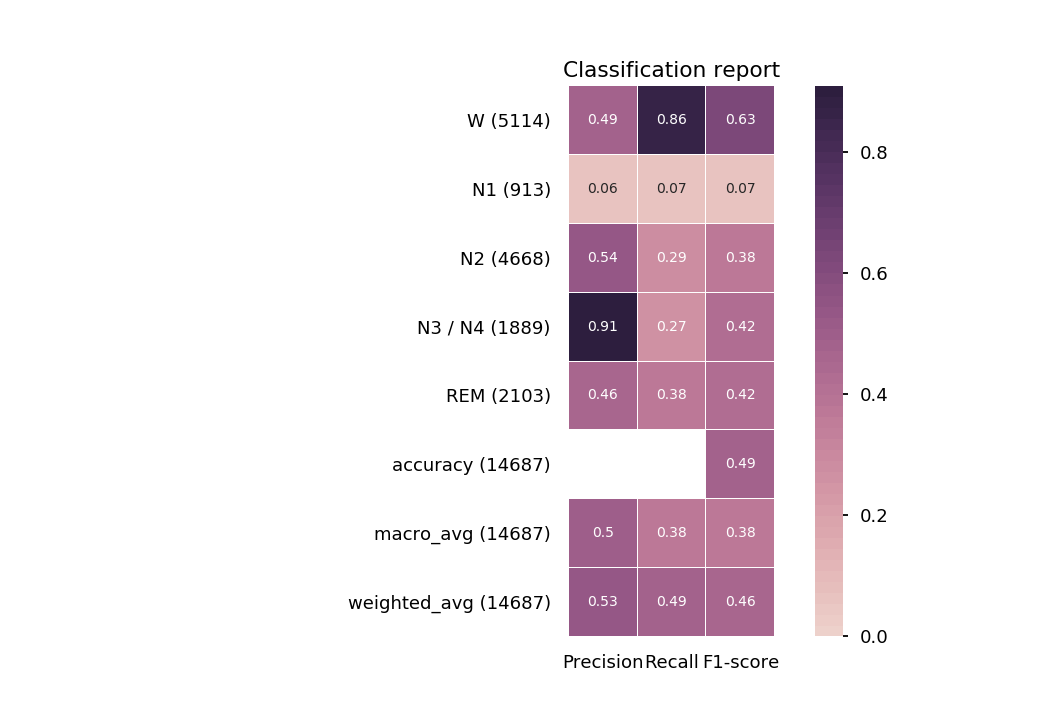
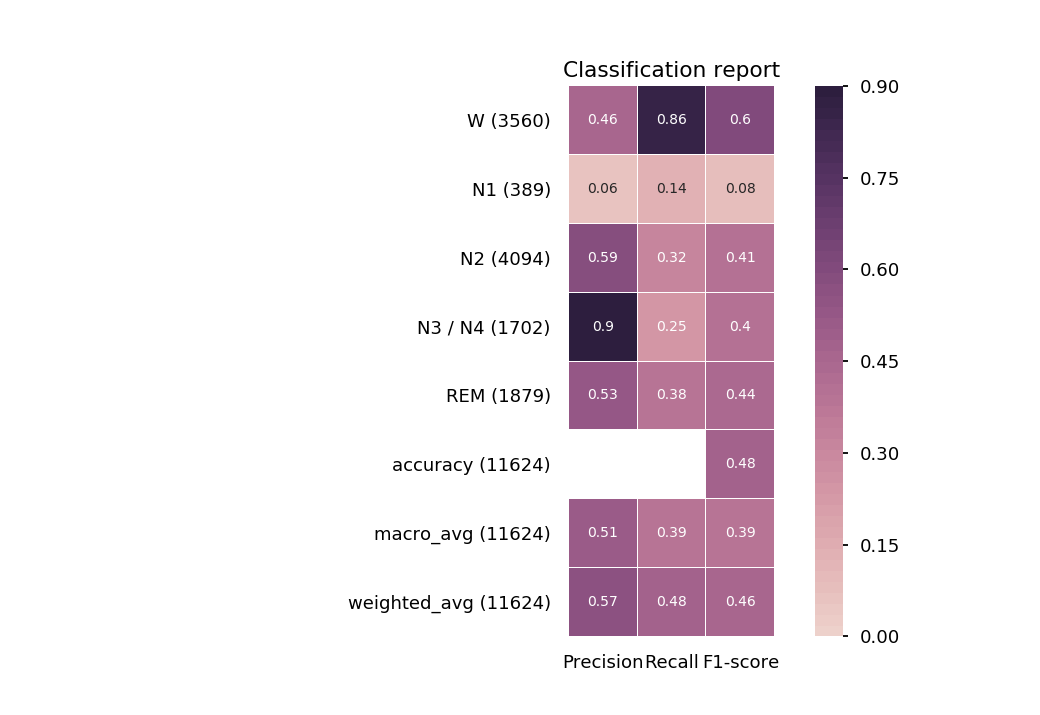
clinical 9channels preprocessing ok

diff --git a/sleep-staging/main_load.py b/sleep-staging/main_load.py
@@ -28,8 +28,8 @@ mapping = {'Sleep stage W': 0,
            'Sleep stage R': 4}
 classes_mapping = {'0': 'W', '1': 'N1', '2': 'N2', '3': 'N3 / N4', '4': 'REM'}
 
-datasets = ['Clinical', 'MASS']
-derivatives = ['9chc', '9ch']
+datasets = ['MASS', 'Clinical']
+derivatives = ['9ch', '9ch']
 sizes = [48, 12]
 
 sfreq = 100
@@ -43,8 +43,8 @@ print_sizes = f'{sizes[0]}_{sizes[1]}'
 
 plots_path = f'plots/29-03/{print_datasets}-{print_sizes}-lr{lr}_batch{batch_size}_{n_epochs}epochs/'
 train_desc = f'{datasets[0]}_{derivatives[0]}-{sizes[0]}-lr{lr}_batch{batch_size}_{n_epochs}epochs'
-models_path = '/storage/store2/work/msolal/trained_models/' + train_desc
-# models_path = '/media/pallanca/datapartition/maelys/trained_models/' + train_desc
+# models_path = '/storage/store2/work/msolal/trained_models/' + train_desc
+models_path = '/media/pallanca/datapartition/maelys/trained_models/' + train_desc
 
 # %%
 # 1. Loading the data

diff --git a/misc/bids/clinical_9channels.py b/misc/bids/clinical_9channels.py
@@ -4,8 +4,8 @@ from os.path import basename
 from mne_bids import BIDSPath, read_raw_bids, write_raw_bids 
 from tempfile import NamedTemporaryFile
 
[3 lines of base64/hex data omitted]
+preproc_bids_root = '/media/pallanca/datapartition/maelys/data/BIDS/derivatives/9channels-eeg_eog_emg/'
 datatype = 'eeg'
 
 all_sub = pd.read_csv(bids_root + 'participants.tsv',

diff --git a/sleep-staging/main_train.py b/sleep-staging/main_train.py
@@ -31,7 +31,7 @@ mapping = {'Sleep stage W': 0,
 classes_mapping = {'0': 'W', '1': 'N1', '2': 'N2', '3': 'N3 / N4', '4': 'REM'}
 
 datasets = ['Clinical']
-derivatives = ['9chc']
+derivatives = ['9ch']
 sizes = [48]
 
 sfreq = 100
